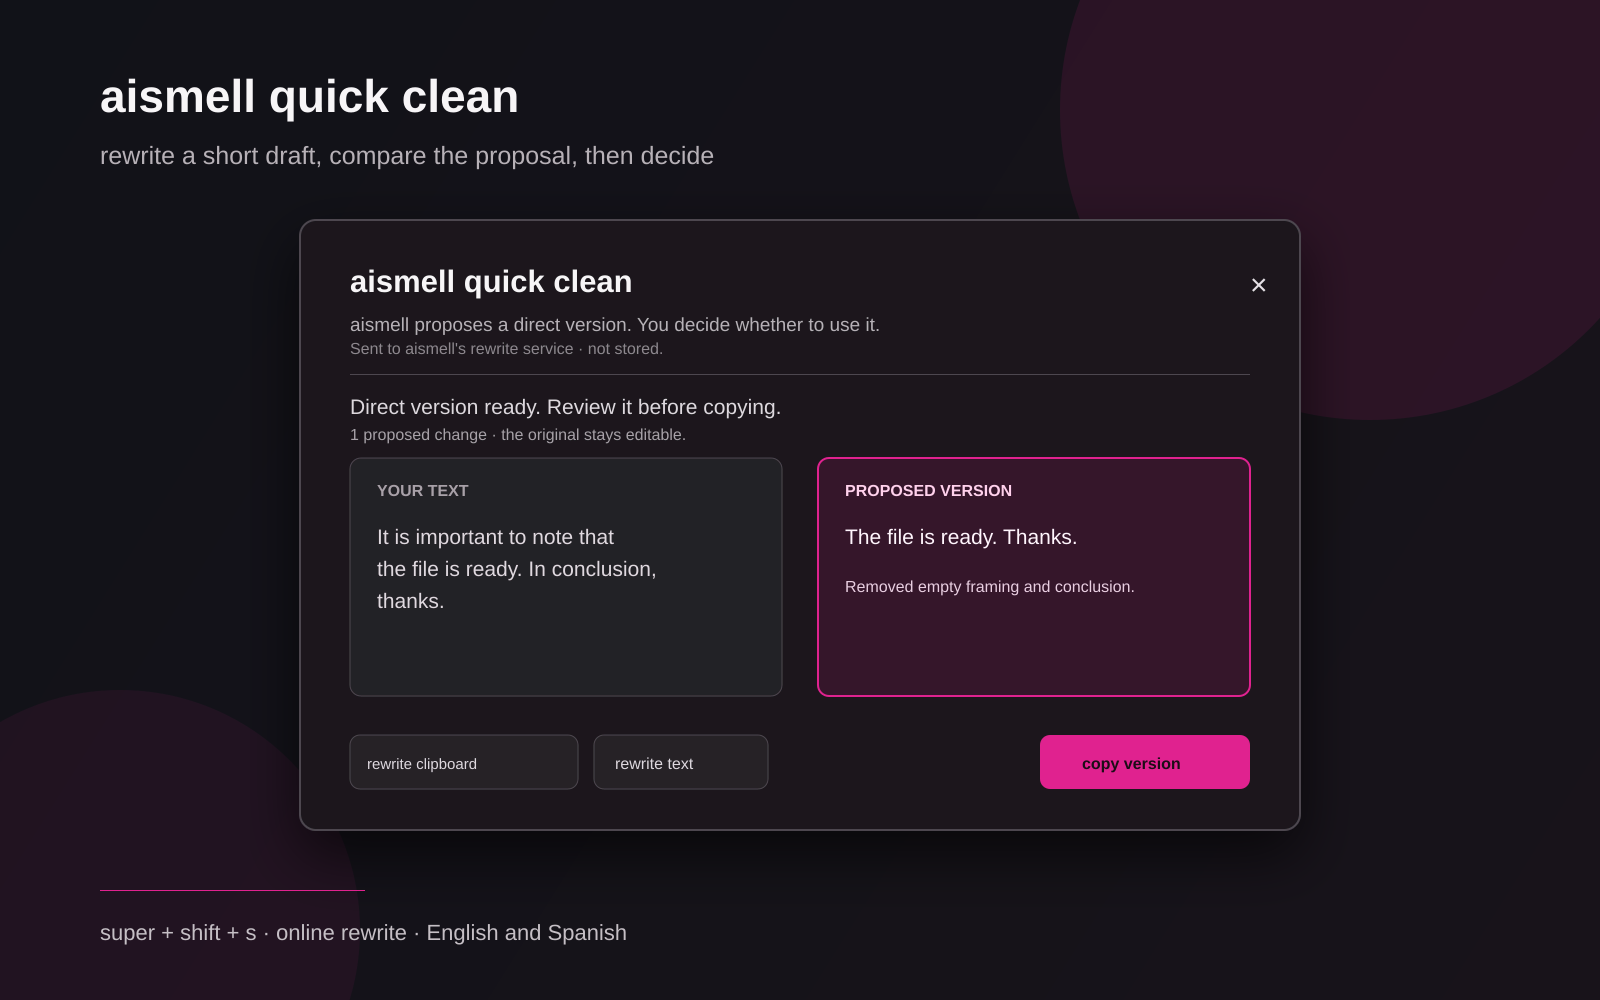
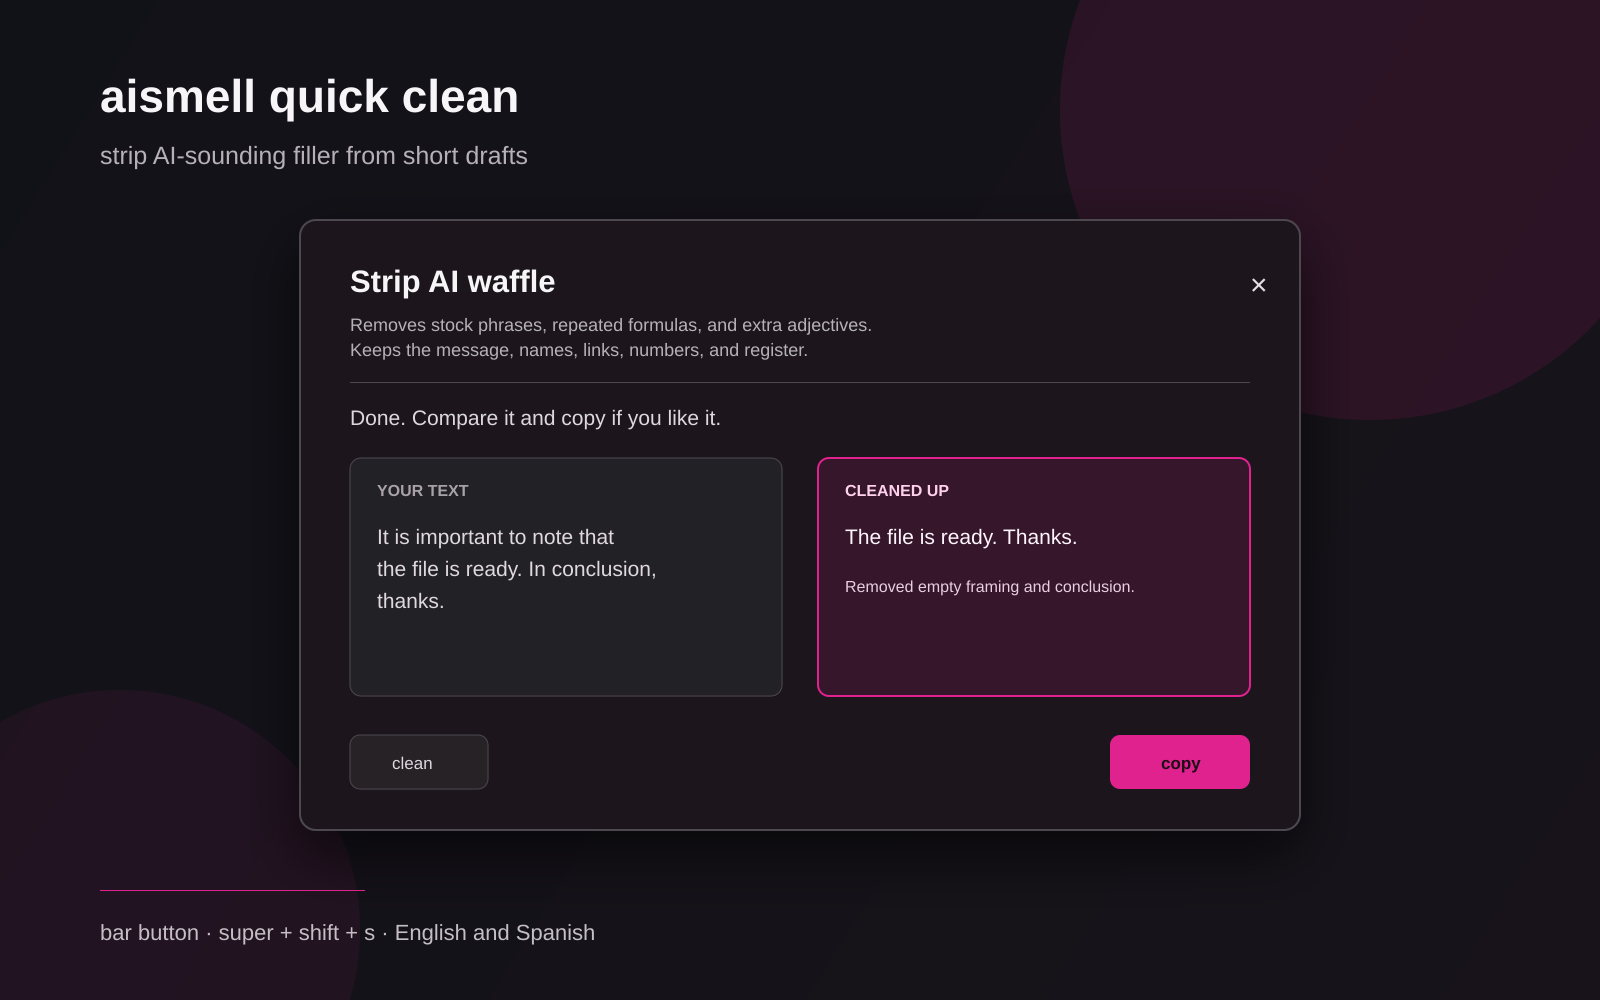
Document storage policy and simplify panel footer

diff --git a/QuickClean.qml b/QuickClean.qml
@@ -411,17 +411,8 @@ Item {
               onClicked: root.copyCleanText()
             }
             Item {
-              width: Math.max(0, parent.width - cleanAction.width - (copyAction.visible ? copyAction.width + parent.spacing : 0) - privacyNote.width - parent.spacing)
+              width: Math.max(0, parent.width - cleanAction.width - (copyAction.visible ? copyAction.width + parent.spacing : 0))
               height: 1
-            }
-            Text {
-              id: privacyNote
-              anchors.verticalCenter: parent.verticalCenter
-              text: root.words("Se procesa en internet. No se guarda.", "Processed online. Not stored.")
-              color: Color.menu.text
-              opacity: 0.42
-              font.family: Style.font.menuFamily
-              font.pixelSize: Style.font.bodySmall
             }
           }
         }

diff --git a/README.md b/README.md
@@ -2,27 +2,43 @@
 
 ![aismell quick clean preview](preview.png)
 
-An Omarchy shortcut that sends a short draft to aismell's rewrite service and returns a tighter version you can inspect before copying.
+An Omarchy panel for cleaning short text that sounds padded by AI. It removes stock phrasing, repeated formulas, and extra adjectives while preserving the message, names, links, dates, numbers, quotations, code, and lists.
 
-`super + shift + s` opens an editor. Paste, type, or load the clipboard; choose **rewrite text**; compare the proposed version; then copy it only if it still sounds like you.
+Open it from the bar button or with `super + shift + s`. The panel loads your clipboard into the editor, but nothing is rewritten until you press **clean**. You can edit the text first, compare the cleaned version, and copy it only if it still sounds like you.
 
 ## What it does
 
-- Rewrites short English and Spanish messages, emails, and paragraphs (up to 3,000 characters).
-- Cuts empty model-sounding framing while preserving facts, names, dates, links, quotations, code, lists, and the text's language.
-- Shows the proposed text before it touches your clipboard.
-- Leaves the original editable and never replaces the clipboard without an explicit click.
-
-It is an opt-in generative rewrite, not a detector and not a promise to evade AI detectors.
+- Cleans short English and Spanish messages, emails, and paragraphs, up to 3,000 characters.
+- Removes AI-sounding filler such as “it is important to note”, “not just X, but Y”, generic conclusions, and inflated wording.
+- Keeps the original editable on the left and shows the cleaned version on the right.
+- Copies the cleaned version only when you press **copy**.
+- Does not try to evade AI detectors. It is a writing cleanup tool.
 
 ## Use
 
-1. Copy text, or open it empty and paste/type directly.
-2. Press `super + shift + s` and choose **rewrite text**.
-3. Compare the proposed version on the right.
-4. Choose **copy version** only if you want it in your clipboard.
+1. Copy a text, or open the panel and paste/type directly.
+2. Press **clean**.
+3. Compare the cleaned version on the right.
+4. Press **copy** only if you want that version in your clipboard.
 
-`escape` closes the window. `ctrl + enter` runs a rewrite.
+`escape`, `super + w`, or clicking outside the card closes the panel. `ctrl + enter` runs the cleanup.
+
+## How it works
+
+1. The local Omarchy plugin reads the clipboard with `wl-paste` only to prefill the editor.
+2. When you press **clean**, the helper sends the current editor text to `https://aismell-rewrite.brmcl.workers.dev/rewrite`.
+3. The rewrite Worker calls a second Worker running the real aismell detector for English and Spanish signals.
+4. Those signals guide Workers AI (`@cf/meta/llama-4-scout-17b-16e-instruct`) to make a conservative rewrite.
+5. The Worker returns JSON with the cleaned text and a short list of changes. The plugin keeps that in memory and shows it in the panel.
+
+## Storage and privacy
+
+aismell quick clean does **not** store your text.
+
+- The plugin does not write the source text, cleaned text, or clipboard contents to disk.
+- The backend has no database, KV, R2 bucket, Durable Object, or file storage for submitted text.
+- Responses use `Cache-Control: no-store`.
+- The text is sent over the network to Cloudflare Workers / Workers AI to produce the rewrite, so do not use it for passwords, private keys, client-confidential material, or anything you would not send to an online writing tool.
 
 ## Installation
 
@@ -30,7 +46,7 @@ It is an opt-in generative rewrite, not a detector and not a promise to evade AI
 omarchy plugin install https://github.com/brm-src/aismell-quick-clean
 ```
 
-It registers `super + shift + s`. It does not use `sudo` or install packages. It needs Omarchy/Hyprland, `curl`, `wl-paste`, and `wl-copy`.
+It registers `super + shift + s` and adds a bar button. It does not use `sudo` or install packages. It needs Omarchy/Hyprland, `curl`, `wl-paste`, and `wl-copy`.
 
 To remove only the shortcut:
 
@@ -38,24 +54,20 @@ To remove only the shortcut:
 bash ~/.config/omarchy/plugins/io.github.brm-src.aismell-quick-clean/setup.sh --remove
 ```
 
-## Privacy
-
-The plugin reads the clipboard only after you choose **rewrite clipboard**. For a rewrite it sends the text to aismell's Cloudflare-hosted service (currently `https://aismell-rewrite.brmcl.workers.dev`, not `aismell.me`), which runs aismell's own detector and then Workers AI. The application has no persistent storage and the response is `Cache-Control: no-store`, but this is still an online request to Cloudflare. The result is copied only when you choose **copy version**.
-
-Do not use it for passwords, private keys, confidential client material, or anything you would not send to an online writing tool.
-
 ## Development checks
 
 ```bash
 /usr/bin/python3 -m pytest tests -q
 python3 -m py_compile quick_clean.py
-qmllint -I /usr/share/omarchy/shell QuickClean.qml
+qmllint -I /usr/share/omarchy/shell BarButton.qml QuickClean.qml
 omarchy plugin validate .
 ```
 
 ## Español
 
-Un atajo de Omarchy para reescribir mensajes, correos y párrafos cortos. Pegas o escribes, eliges **reescribir texto**, comparas la propuesta y solo entonces decides si copiarla. El texto se envía a un servicio de aismell alojado en Cloudflare para generar la propuesta; no se guarda, pero no es procesamiento local. No lo uses con secretos ni material confidencial.
+Panel de Omarchy para quitar la palabrería de IA a textos cortos: frases de trámite, fórmulas repetidas y adjetivos de más. Abres desde la barra o con `super + shift + s`, editas si hace falta, presionas **limpiar**, comparas la versión limpia y solo entonces decides si copiarla.
+
+El texto se envía al servicio online de aismell para generar la propuesta, pero aismell quick clean no lo almacena: el plugin no escribe el texto en disco y el backend no tiene base de datos ni almacenamiento de envíos. No lo uses con secretos ni material confidencial.
 
 ## License
 
